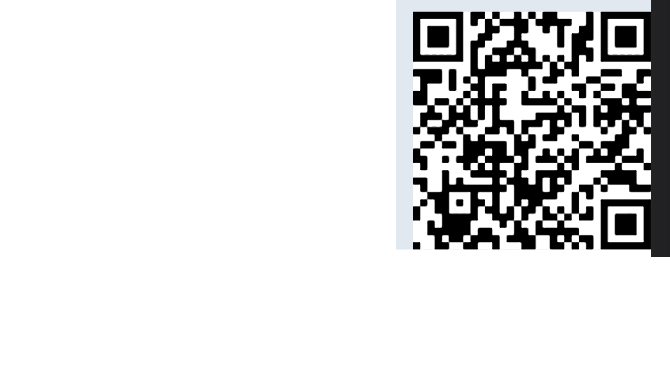
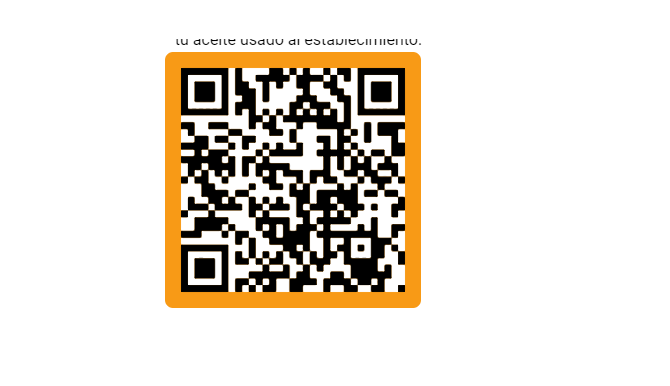
qr

diff --git a/src/main.css b/src/main.css
@@ -315,7 +315,7 @@ body
 
 /* General Card type*/
 
-.gcardContainer 
+.gcardContainer
 {
     position: fixed;
     top: 50px;
@@ -327,55 +327,62 @@ body
     justify-content: center;
     z-index: 1100;
 }
-  
 
-.gCard {
+
+.gCard
+{
     background-color: #fff;
     border-radius: 8px;
     box-shadow: 4px 4px 4px 1px rgba(0, 0, 0, 0.25);
     padding: 16px;
     text-align: center;
-    max-width: 300px;
+    width: 378px;
+    height: 553px;
     margin: 0 auto;
-    position:absolute;
-  }
-  
-  .gcard h3 {
-    font-size: 30px;
+    position: absolute;
+}
+
+.gCard h3
+{
+    font-size: 26px;
     font-weight: bold;
     margin-bottom: 8px;
-  }
-  
-  .gcard p {
+}
+
+.gCard p
+{
     font-size: 14px;
     color: rgb(82, 78, 78);
     margin-bottom: 16px;
-  }
-  
-  .qrContainer {
-    background-color:rgb(248, 154, 22);
+}
+
+.qrContainer
+{
+    background-color: rgb(248, 154, 22);
     padding: 16px;
     border-radius: 8px;
-  }
-  
-  .qr {
+}
+
+.qr
+{
     width: 90%;
     max-width: 200px;
     display: block;
     margin: 0 auto;
-  }
-  
-  .ganaPuntos {
-    
+}
+
+.ganaPuntos
+{
+
     margin-top: 16px;
     font-weight: bold;
-  }
+}
 
-  .centerContainer, NavLink {
+.centerContainer a
+{
 
     display: flex;
     align-items: center;
     justify-content: center;
 
-  }
-
+}

diff --git a/src/Private/Components/CreateQR.jsx b/src/Private/Components/CreateQR.jsx
@@ -23,20 +23,20 @@ export const CreateQR = () => {
 
     <article className="gcardContainer mt-10">
 
-    <div className='gCard centerDiv text-center'>
+      <div className='gCard centerDiv text-center'>
 
-      {
-        (qrValue) &&
-        <div>
-          <h3>Este es tu QR</h3> 
-          <p>¡Gana puntos y protege el agua!
-            Muestra tu código QR cuando lleves tu aceite usado al establecimiento.</p>
-          <QRCode value={JSON.stringify(qrValue)} className="qrContainer" />
-          <p className='ganaPuntos qrContainer whiteColor'>GANA PUNTOS</p>
-        </div>
-      }
+        {
+          (qrValue) &&
+          <div>
+            <h3>Este es tu QR</h3>
+            <p>¡Gana puntos y protege el agua!
+              Muestra tu código QR cuando lleves tu aceite usado al establecimiento.</p>
+            <QRCode value={JSON.stringify(qrValue)} className="qrContainer" />
+            <p className='ganaPuntos qrContainer whiteColor'>GANA PUNTOS</p>
+          </div>
+        }
 
-    </div>
+      </div>
     </article>
 
   );

diff --git a/src/Public/Components/NavBar.jsx b/src/Public/Components/NavBar.jsx
@@ -46,7 +46,6 @@ export const NavBar = () => {
                       className="fill-current text-white h-6 m-auto w-6 hover:text-white hover:bg-gray-600"
                     />
                   </NavLink>
-
                 </div>
 
               </div>
@@ -69,7 +68,19 @@ export const NavBar = () => {
                       </NavLink>
 
                     ))}
+
+                    <div className="flex ml-auto ">
+                      <span className="mx-2 mr-2">Escanea aquí</span>
+                      <NavLink to={'login'}>
+                        <img
+                          src="\assets\qr.png"
+                          alt="scan-logo"
+                          className="fill-current text-white h-6 m-auto w-6 hover:text-white hover:bg-gray-600"
+                        />
+                      </NavLink>
+                    </div>
                   </div>
+
                 </div>
               </div>
 

diff --git a/src/Public/Components/Info.jsx b/src/Public/Components/Info.jsx
@@ -71,7 +71,7 @@ export const Info = ({ name, rating, address, image_url, url, phone, price, coor
                         <p className='text-[0.6rem] py-1'>{(phone) ? parseInt(phone) : '--'}</p>
                     </div>
 
-                    <div className='grid contPopup border-b border-gray-200'>
+                    {/* <div className='grid contPopup border-b border-gray-200'>
                         <div className='w-3 h-3 self-center'>
                             <img src="../assets/star.png" />
                         </div>
@@ -83,7 +83,7 @@ export const Info = ({ name, rating, address, image_url, url, phone, price, coor
                             <img src="../assets/coins.png" />
                         </div>
                         <p className='text-[0.6rem] py-1'>{(price) ? `Precio: ${price}` : '--'}</p>
-                    </div>
+                    </div> */}
 
                 </div>
             }

diff --git a/src/Public/Components/UserMarker.jsx b/src/Public/Components/UserMarker.jsx
@@ -31,13 +31,16 @@ export const UserMarker = ({ findMe }) => {
 
 
     useEffect(() => {
-        
+
         if (!coords.lat) {
-            dispatch(onLocating());
+            dispatch(onLocating(true));
             map.locate();
 
-        } else
+        } else {
+            
             setPosition([coords.lat, coords.long]);
+            dispatch(onLocating(false));
+        }
 
     }, [findMe]);
 

diff --git a/src/Store/Slices/userSlice.js b/src/Store/Slices/userSlice.js
@@ -31,7 +31,7 @@ export const userSlice = createSlice({
 
         onLocating: (state, { payload }) => {
 
-            state.isLocating = true;
+            state.isLocating = payload;
         },
 
         onQuestion: (state, { payload }) => {
